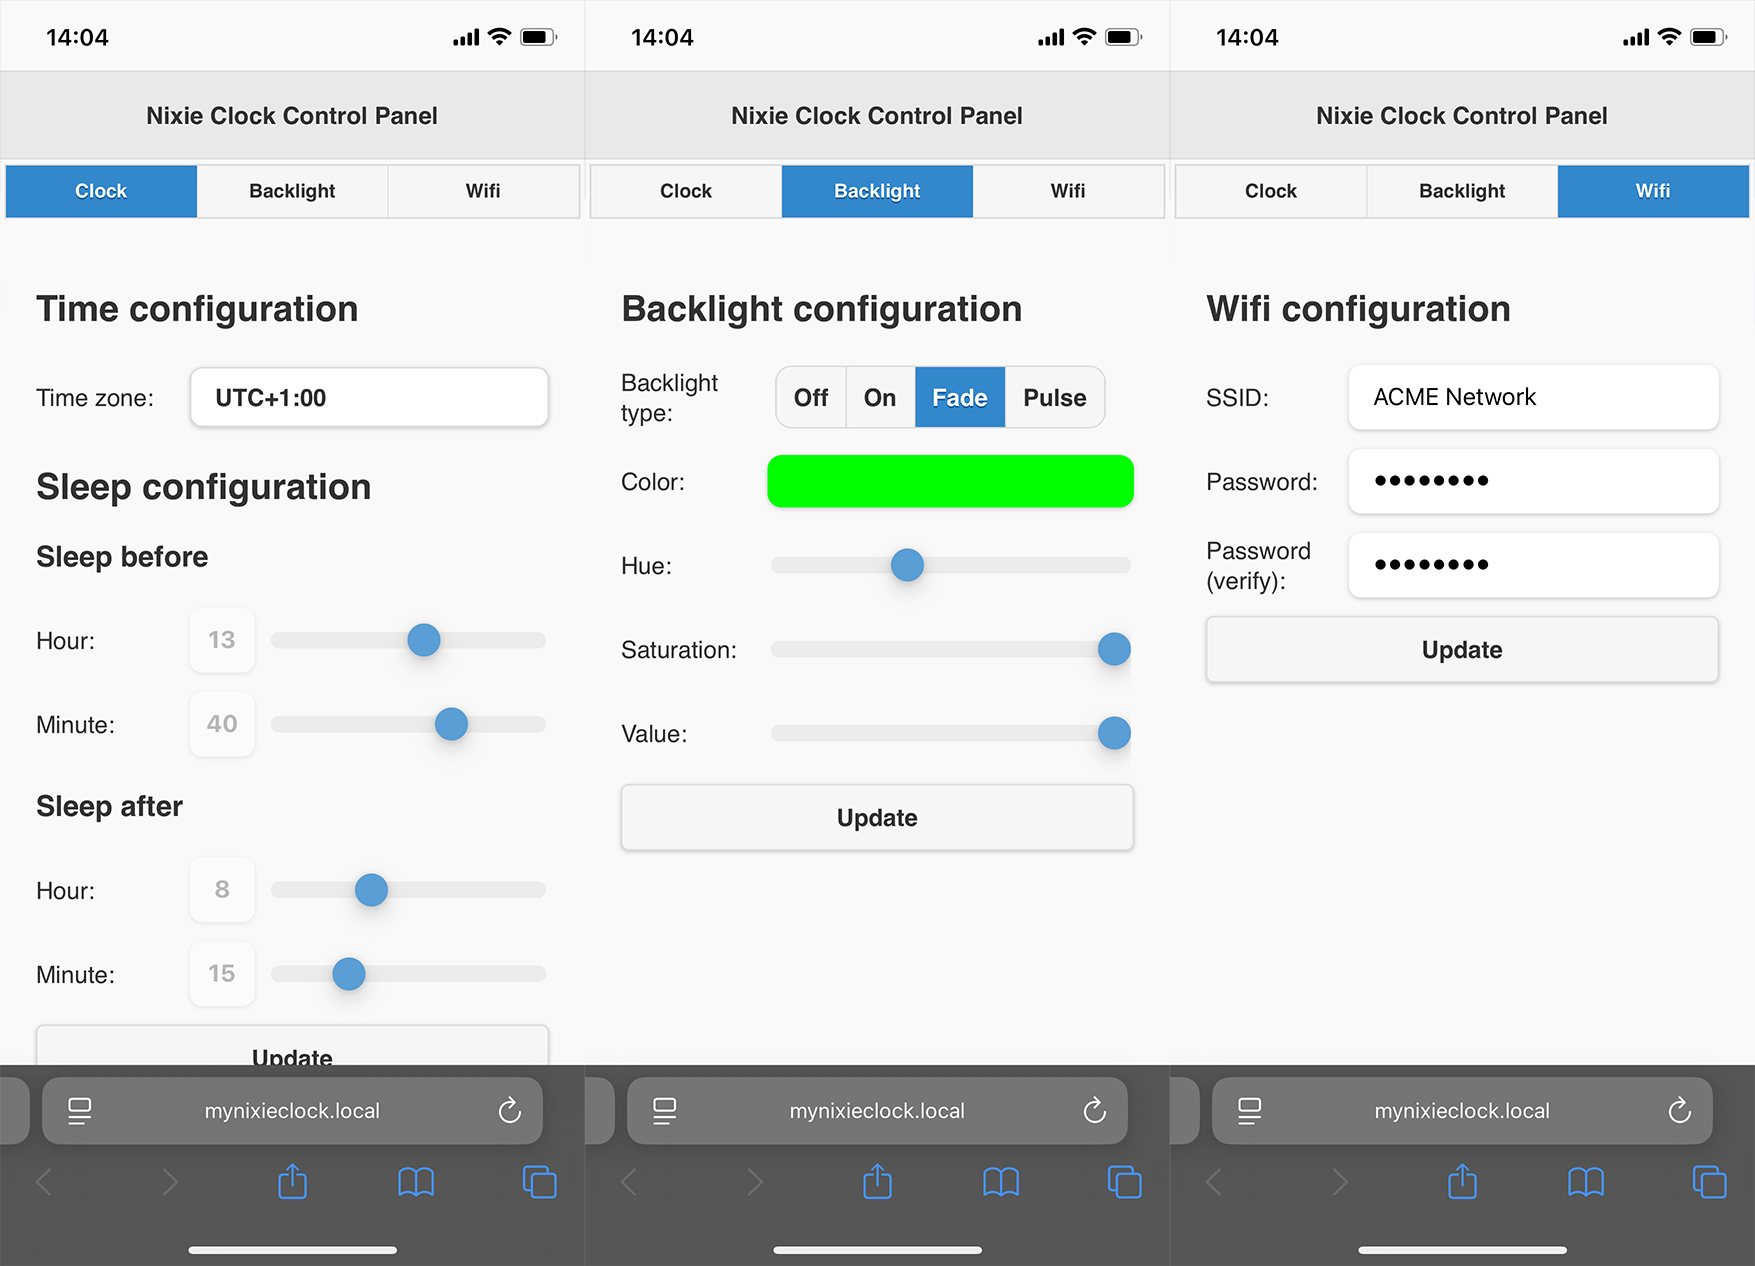
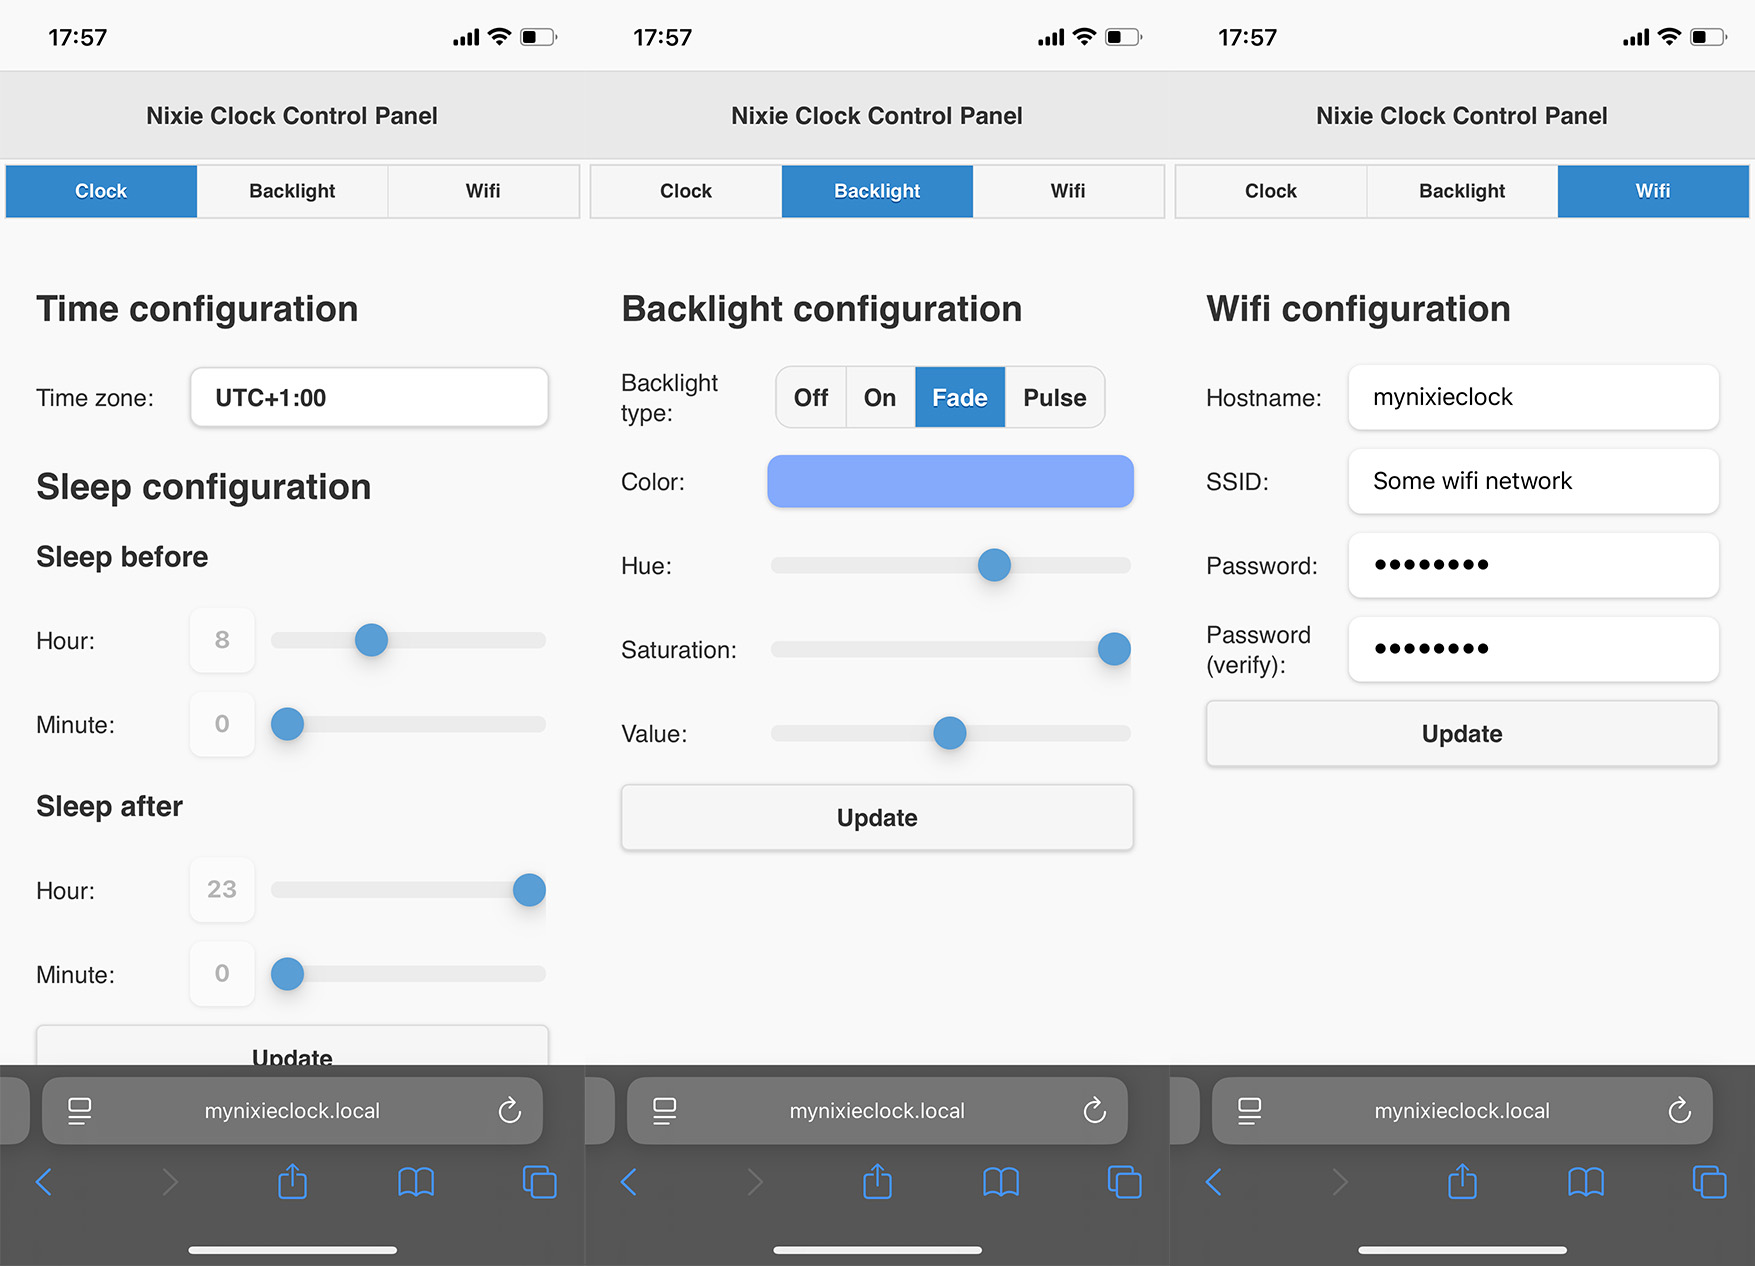
Make hostname configurable via web app

diff --git a/firmware/data/web_server/server.js b/firmware/data/web_server/server.js
@@ -77,19 +77,21 @@ class LedInfo {
 }
 
 class WifiInfo {
-    constructor(ssid, password) {
+    constructor(hostname, ssid, password) {
+        this.hostname = hostname
         this.ssid = ssid;
         this.password = password;
     }
     toJson() {
         return {
+            "hostname": this.hostname,
             "SSID": this.ssid,
             "password": this.password,
         };
     }
     static Builder = class {
         fromJson(message) {
-            return new WifiInfo(message.SSID, message.password);
+            return new WifiInfo(message.hostname, message.SSID, message.password);
         }
     }
 }
@@ -302,6 +304,7 @@ function getWifiInfo() {
         })
         .then(data => {
             wifiInfo = new WifiInfo.Builder().fromJson(data);
+            document.getElementById("hostname").value = wifiInfo.hostname;
             document.getElementById("ssid").value = wifiInfo.ssid;
             document.getElementById("password").value = wifiInfo.password;
             document.getElementById("passwordVerify").value = wifiInfo.password;
@@ -314,6 +317,12 @@ function getWifiInfo() {
 function setWifiInfo() {
     var logLabel = document.getElementById("wifiLog");
     var errorColor = "#ff6457"
+    if (document.getElementById("hostname").value == "") {
+        console.log("Error: Hostname cannot be empty");
+        logLabel.innerHTML = "Error: Hostname cannot be empty";
+        logLabel.style.color = errorColor;
+        return;
+    }
     if (document.getElementById("ssid").value == "") {
         console.log("Error: Wifi SSID cannot be empty");
         logLabel.innerHTML = "Error: Wifi SSID cannot be empty";
@@ -333,6 +342,7 @@ function setWifiInfo() {
         return;
     }
     logLabel.innerHTML = "";
+    wifiInfo.hostname = document.getElementById("hostname").value;
     wifiInfo.ssid = document.getElementById("ssid").value;
     wifiInfo.password = btoa(document.getElementById("password").value);
     const requestOptions = {

diff --git a/firmware/data/web_server/index.html b/firmware/data/web_server/index.html
@@ -152,6 +152,10 @@
 	<div id="tabWifi" class="tabcontent">
 		<h2>Wifi configuration</h2>
 		<div class="field-container">
+			<label for="hostname">Hostname:</label>
+			<input type="text" name="hostname" id="hostname" value="" />
+		</div>
+		<div class="field-container">
 			<label for="ssid">SSID:</label>
 			<input type="text" name="ssid" id="ssid" value="" />
 		</div>

diff --git a/firmware/include/WifiInfo.h b/firmware/include/WifiInfo.h
@@ -9,6 +9,7 @@
  */
 class WifiInfo {
   private:
+    String hostname;
     String ssid;
     String password;
 
@@ -21,10 +22,12 @@ class WifiInfo {
     /**
      * @brief Construct a new Sleep Info object
      *
-     * @param ssid AP SSID
+     * @param hostname hostname
+     * @param ssid SSID
      * @param password password
      */
-    WifiInfo(const String& ssid, const String& password);
+    WifiInfo(const String& hostname, const String& ssid,
+             const String& password);
 
     /**
      * @brief Default destructor
@@ -36,6 +39,20 @@ class WifiInfo {
      * @param ledInfo LedInfo object
      */
     WifiInfo(const WifiInfo& WifiInfo) = default;
+
+    /**
+     * @brief Getter for hostname
+     *
+     * @return String hostname
+     */
+    String GetHostname() const;
+
+    /**
+     * @brief Setter for hostname
+     *
+     * @param value hostname
+     */
+    void SetHostname(const String& value);
 
     /**
      * @brief Getter for ssid

diff --git a/firmware/src/main.cpp b/firmware/src/main.cpp
@@ -37,7 +37,6 @@ constexpr uint8_t MINUTES_IN_HOUR = 60;
 constexpr int WEBSERVER_PORT = 80;
 constexpr uint8_t DNS_PORT = 53;
 constexpr const char* DEFAULT_AP_SSID = "NixieClock";
-constexpr const char* HOSTNAME = "mynixieclock";
 
 constexpr uint8_t CURRENT_TIME_REPEAT_NUM = 3;
 
@@ -90,7 +89,7 @@ bool InitializeWifiInStationMode(const WifiInfo& wifiInfo) {
                   const_cast<char*>(wifiInfo.GetPassword().c_str()),
                   wifiInfo.GetPassword().length());
     Serial.printf("Connecting to %s", wifiInfo.GetSSID().c_str());
-    WiFi.setHostname(HOSTNAME);
+    WiFi.setHostname(wifiInfo.GetHostname().c_str());
     WiFi.mode(WIFI_STA);
     WiFi.begin(wifiInfo.GetSSID(), decodedPassword);
     uint8_t counter = 100;
@@ -207,7 +206,7 @@ void setup() {
     }
 
     Serial.printf("Initializing mDNS... ");
-    MDNS.begin(HOSTNAME);
+    MDNS.begin(wi.GetHostname());
     Serial.println("Done");
 
     Serial.print("Initializing Web server... ");

diff --git a/firmware/src/WifiInfo.cpp b/firmware/src/WifiInfo.cpp
@@ -1,7 +1,12 @@
 #include "WifiInfo.h"
 
-WifiInfo::WifiInfo(const String& ssid, const String& password)
-    : ssid(ssid), password(password) {}
+WifiInfo::WifiInfo(const String& hostname, const String& ssid,
+                   const String& password)
+    : hostname(hostname), ssid(ssid), password(password) {}
+
+String WifiInfo::GetHostname() const { return hostname; }
+
+void WifiInfo::SetHostname(const String& value) { hostname = value; }
 
 String WifiInfo::GetSSID() const { return ssid; }
 
@@ -13,6 +18,7 @@ void WifiInfo::SetPassword(const String& value) { password = value; }
 
 JsonDocument WifiInfo::ToJson() const {
     JsonDocument doc;
+    doc["hostname"] = hostname;
     doc["SSID"] = ssid;
     doc["password"] = password;
     return doc;

diff --git a/firmware/src/WebServer.cpp b/firmware/src/WebServer.cpp
@@ -184,13 +184,15 @@ void WebServer::HandleSetWifiInfo(AsyncWebServerRequest* request,
         return;
     }
     JsonDocument requestBody = json.as<JsonObject>();
-    if (!requestBody.containsKey("SSID") ||
+    if (!requestBody.containsKey("hostname") ||
+        !requestBody.containsKey("SSID") ||
         !requestBody.containsKey("password")) {
         request->send(HTTP_400_BAD_REQUEST,
                       "Error HandleSetWifiInfo: missing argument(s)!");
         return;
     }
-    WifiInfo wi(requestBody["SSID"], requestBody["password"]);
+    WifiInfo wi(requestBody["hostname"], requestBody["SSID"],
+                requestBody["password"]);
     request->send(HTTP_200_OK, "");
     callback.OnSetWifiInfo(wi);
 }

diff --git a/firmware/src/ConfigStore.cpp b/firmware/src/ConfigStore.cpp
@@ -65,6 +65,7 @@ void ConfigStore::LoadWifiInfo(WifiInfo& wifiInfo) {
     if (deserializeJson(doc, file))
         Serial.printf("Failed to read %s file.\n", WIFI_INFO_FILE);
     file.close();
+    wifiInfo.SetHostname(doc["hostname"]);
     wifiInfo.SetSSID(doc["SSID"]);
     wifiInfo.SetPassword(doc["password"]);
 }

diff --git a/README.md b/README.md
@@ -17,7 +17,9 @@ Operating modes:
 - Client mode
   - In this mode the clock is connected to a configured wifi network. If there is internet access, the clock will synchronize its RTC with NTP server at startup and then every hour periodically.
 
-In both modes, the configuration page is easily reachable on the following URL: `mynixieclock.local`. There is no need to keep track of the IP address, the clock is hosting Multicast DNS (mDNS) server. mDNS is supported by Chrome and Safari browsers out of the box.
+In both modes, the configuration page is easily reachable on the following URL: `<HOSTNAME>.local`. There is no need to keep track of the IP address, the clock is hosting Multicast DNS (mDNS) server. mDNS is supported by Chrome and Safari browsers out of the box.
+
+By default, the `HOSTNAME` is set to `mynixieclock`.
 
 ## Firmware
 
@@ -38,8 +40,8 @@ Firmware is written using Arduino IDE and PlatformIO
 | /clock/time | POST | {<br>&nbsp;&nbsp;&nbsp;&nbsp; “year”: \<value>,<br>&nbsp;&nbsp;&nbsp;&nbsp; “month”: \<value>,<br>&nbsp;&nbsp;&nbsp;&nbsp; “day”: \<value>,<br>&nbsp;&nbsp;&nbsp;&nbsp; “hour”: \<value>,<br>&nbsp;&nbsp;&nbsp;&nbsp; “minute”: \<value>,<br>&nbsp;&nbsp;&nbsp;&nbsp; “second”: \<value><br>} | Set current time. |
 | /clock/sleep_info | GET | {<br>&nbsp;&nbsp;&nbsp;&nbsp; “sleep_before”: \<value>,<br>&nbsp;&nbsp;&nbsp;&nbsp; “sleep_after”: \<value><br>} | Get sleep mode configuration. The time before and after (in minutes) the backlight will be turned off. |
 | /clock/sleep_info | POST | {<br>&nbsp;&nbsp;&nbsp;&nbsp; “sleep_before”: \<value>,<br>&nbsp;&nbsp;&nbsp;&nbsp; “sleep_after”: \<value><br>} | Set sleep mode configuration. |
-| /wifi | GET | {<br>&nbsp;&nbsp;&nbsp;&nbsp;“SSID”: “\<Wifi SSID>”,&nbsp;&nbsp;&nbsp;&nbsp; <br>&nbsp;&nbsp;&nbsp;&nbsp;“password”: “\<base64 encoded password>”<br>} | Get wifi configuration. |
-| /wifi | POST | {<br>&nbsp;&nbsp;&nbsp;&nbsp;“SSID”: “\<Wifi SSID>”,&nbsp;&nbsp;&nbsp;&nbsp; <br>&nbsp;&nbsp;&nbsp;&nbsp;“password”: “\<base64 encoded password>”<br>} | Get wifi configuration. | Set wifi configuration. |
+| /wifi | GET | {<br>&nbsp;&nbsp;&nbsp;&nbsp;"hostname": "\<HOSTNAME>",<br>&nbsp;&nbsp;&nbsp;&nbsp;“SSID”: “\<Wifi SSID>”,&nbsp;&nbsp;&nbsp;&nbsp; <br>&nbsp;&nbsp;&nbsp;&nbsp;“password”: “\<base64 encoded password>”<br>} | Get wifi configuration. |
+| /wifi | POST | {<br>&nbsp;&nbsp;&nbsp;&nbsp;"hostname": "\<HOSTNAME>",<br>&nbsp;&nbsp;&nbsp;&nbsp;“SSID”: “\<Wifi SSID>”,&nbsp;&nbsp;&nbsp;&nbsp; <br>&nbsp;&nbsp;&nbsp;&nbsp;“password”: “\<base64 encoded password>”<br>} | Get wifi configuration. | Set wifi configuration. |
 
 ### Front-end layout & design
 
